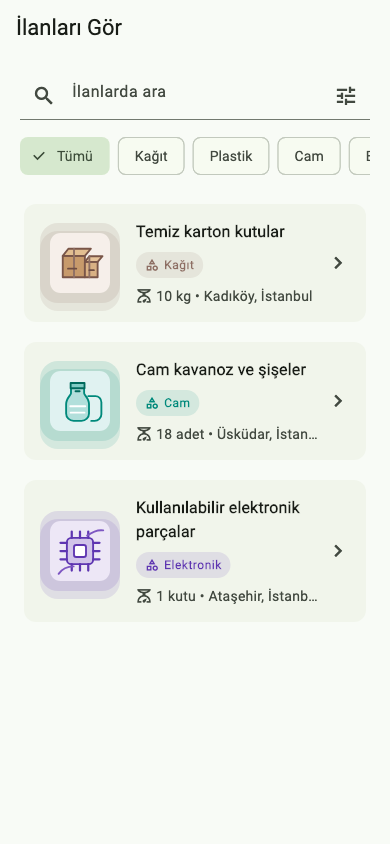
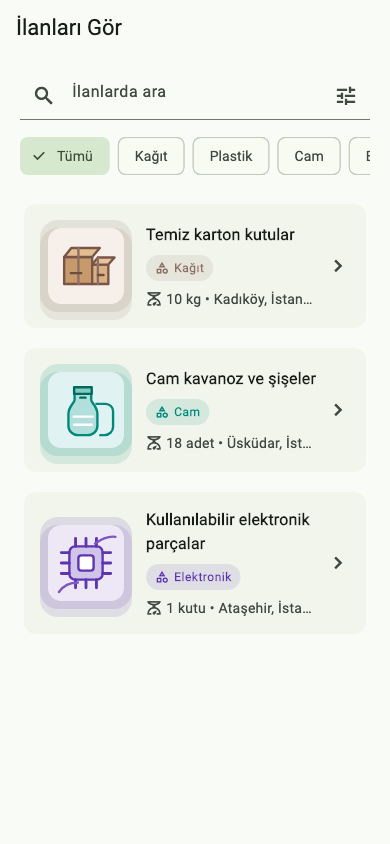
README ilan görsellerini düzenledim

diff --git a/lib/screens/listings_page.dart b/lib/screens/listings_page.dart
@@ -370,8 +370,8 @@ class _ListingCard extends StatelessWidget {
           child: Row(
             children: [
               Container(
-                width: 80,
-                height: 80,
+                width: 92,
+                height: 92,
                 decoration: BoxDecoration(
                   borderRadius: BorderRadius.circular(18),
                   boxShadow: [
@@ -385,10 +385,10 @@ class _ListingCard extends StatelessWidget {
                 child: _ListingImage(
                   listing: listing,
                   borderRadius: BorderRadius.circular(18),
-                  padding: const EdgeInsets.all(10),
+                  padding: const EdgeInsets.all(8),
                 ),
               ),
-              const SizedBox(width: 16),
+              const SizedBox(width: 14),
               Expanded(
                 child: Column(
                   crossAxisAlignment: CrossAxisAlignment.start,

diff --git a/README.md b/README.md
@@ -60,17 +60,23 @@ oluşturma ve talep takibi olan daha tamamlanmış bir akışa dönüşüyor.
 
 ## Ekran Görüntüleri
 
+### Giriş ve ana ekran
+
 | Giriş | Ana ekran |
 | --- | --- |
-| <img src="screenshots/01-login.png" width="220" alt="Giriş ekranı"> | <img src="screenshots/02-home.png" width="220" alt="Ana ekran"> |
+| <img src="screenshots/01-login.png" width="260" alt="Giriş ekranı"> | <img src="screenshots/02-home.png" width="260" alt="Ana ekran"> |
+
+### İlan akışı
 
 | İlanlar | İlan detayı |
 | --- | --- |
-| <img src="screenshots/03-listings.png" width="220" alt="İlan listesi"> | <img src="screenshots/05-listing-detail.png" width="220" alt="İlan detayı"> |
+| <img src="screenshots/03-listings.png" width="260" alt="İlan listesi"> | <img src="screenshots/05-listing-detail.png" width="260" alt="İlan detayı"> |
+
+### İlan oluşturma ve talep takibi
 
 | İlan oluşturma | Taleplerim ve iletişim |
 | --- | --- |
-| <img src="screenshots/07-create-listing.png" width="220" alt="İlan oluşturma ekranı"> | <img src="screenshots/09-my-requests.png" width="220" alt="Taleplerim ve iletişim ekranı"> |
+| <img src="screenshots/07-create-listing.png" width="260" alt="İlan oluşturma ekranı"> | <img src="screenshots/09-my-requests.png" width="260" alt="Taleplerim ve iletişim ekranı"> |
 
 ## Kullandığım Teknolojiler
 
